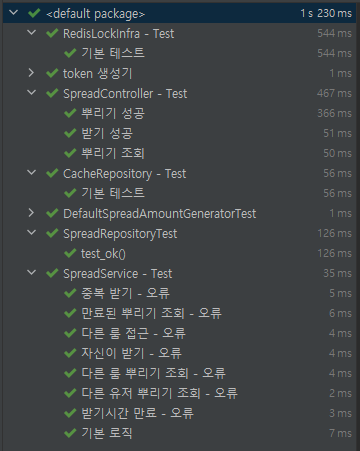
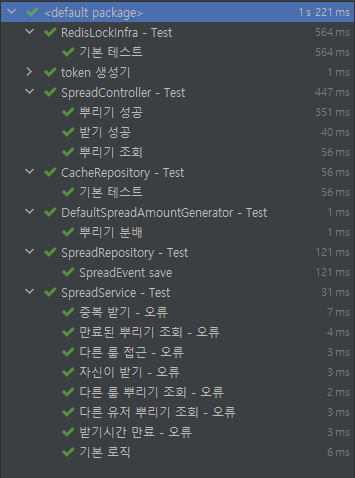
테스트 모듈 간소화

diff --git a/assignment-api/src/test/java/com/plzhans/assignment/api/repository/SpreadRepositoryTest.java b/assignment-api/src/test/java/com/plzhans/assignment/api/repository/SpreadRepositoryTest.java
@@ -4,6 +4,7 @@ import com.plzhans.assignment.api.service.spread.SpreadTokenGenerator;
 import com.plzhans.assignment.common.domain.spread.SpreadState;
 import com.plzhans.assignment.common.entity.SpreadEventEntity;
 import lombok.val;
+import org.junit.jupiter.api.DisplayName;
 import org.junit.jupiter.api.Test;
 import org.junit.jupiter.api.extension.ExtendWith;
 import org.springframework.beans.factory.annotation.Autowired;
@@ -21,12 +22,14 @@ import static org.junit.jupiter.api.Assertions.assertEquals;
 @EntityScan({"com.plzhans.assignment.common.entity", "com.plzhans.assignment.api.entity"})
 //@AutoConfigureTestDatabase(replace = AutoConfigureTestDatabase.Replace.NONE)
 //@ActiveProfiles("debug")
+@DisplayName("SpreadRepository - Test")
 @ExtendWith(SpringExtension.class)
 class SpreadRepositoryTest {
     @Autowired
     SpreadRepository spreadRepository;
 
     @Test
+    @DisplayName("SpreadEvent save")
     public void test_ok() {
 
         // WHEN

diff --git a/assignment-api/src/test/java/com/plzhans/assignment/api/service/spread/DefaultSpreadAmountGeneratorTest.java b/assignment-api/src/test/java/com/plzhans/assignment/api/service/spread/DefaultSpreadAmountGeneratorTest.java
@@ -2,10 +2,12 @@ package com.plzhans.assignment.api.service.spread;
 
 import lombok.val;
 import org.junit.jupiter.api.BeforeEach;
+import org.junit.jupiter.api.DisplayName;
 import org.junit.jupiter.api.Test;
 
 import static org.junit.jupiter.api.Assertions.assertEquals;
 
+@DisplayName("DefaultSpreadAmountGenerator - Test")
 public class DefaultSpreadAmountGeneratorTest {
     SpreadAmountGenerator amountGenerator;
 
@@ -17,6 +19,7 @@ public class DefaultSpreadAmountGeneratorTest {
         this.amountGenerator = new DefaultSpreadAmountGenerator();
     }
 
+    @DisplayName("뿌리기 분배")
     @Test
     public void generateToList_ok() {
         int totalAmount = 1000;
